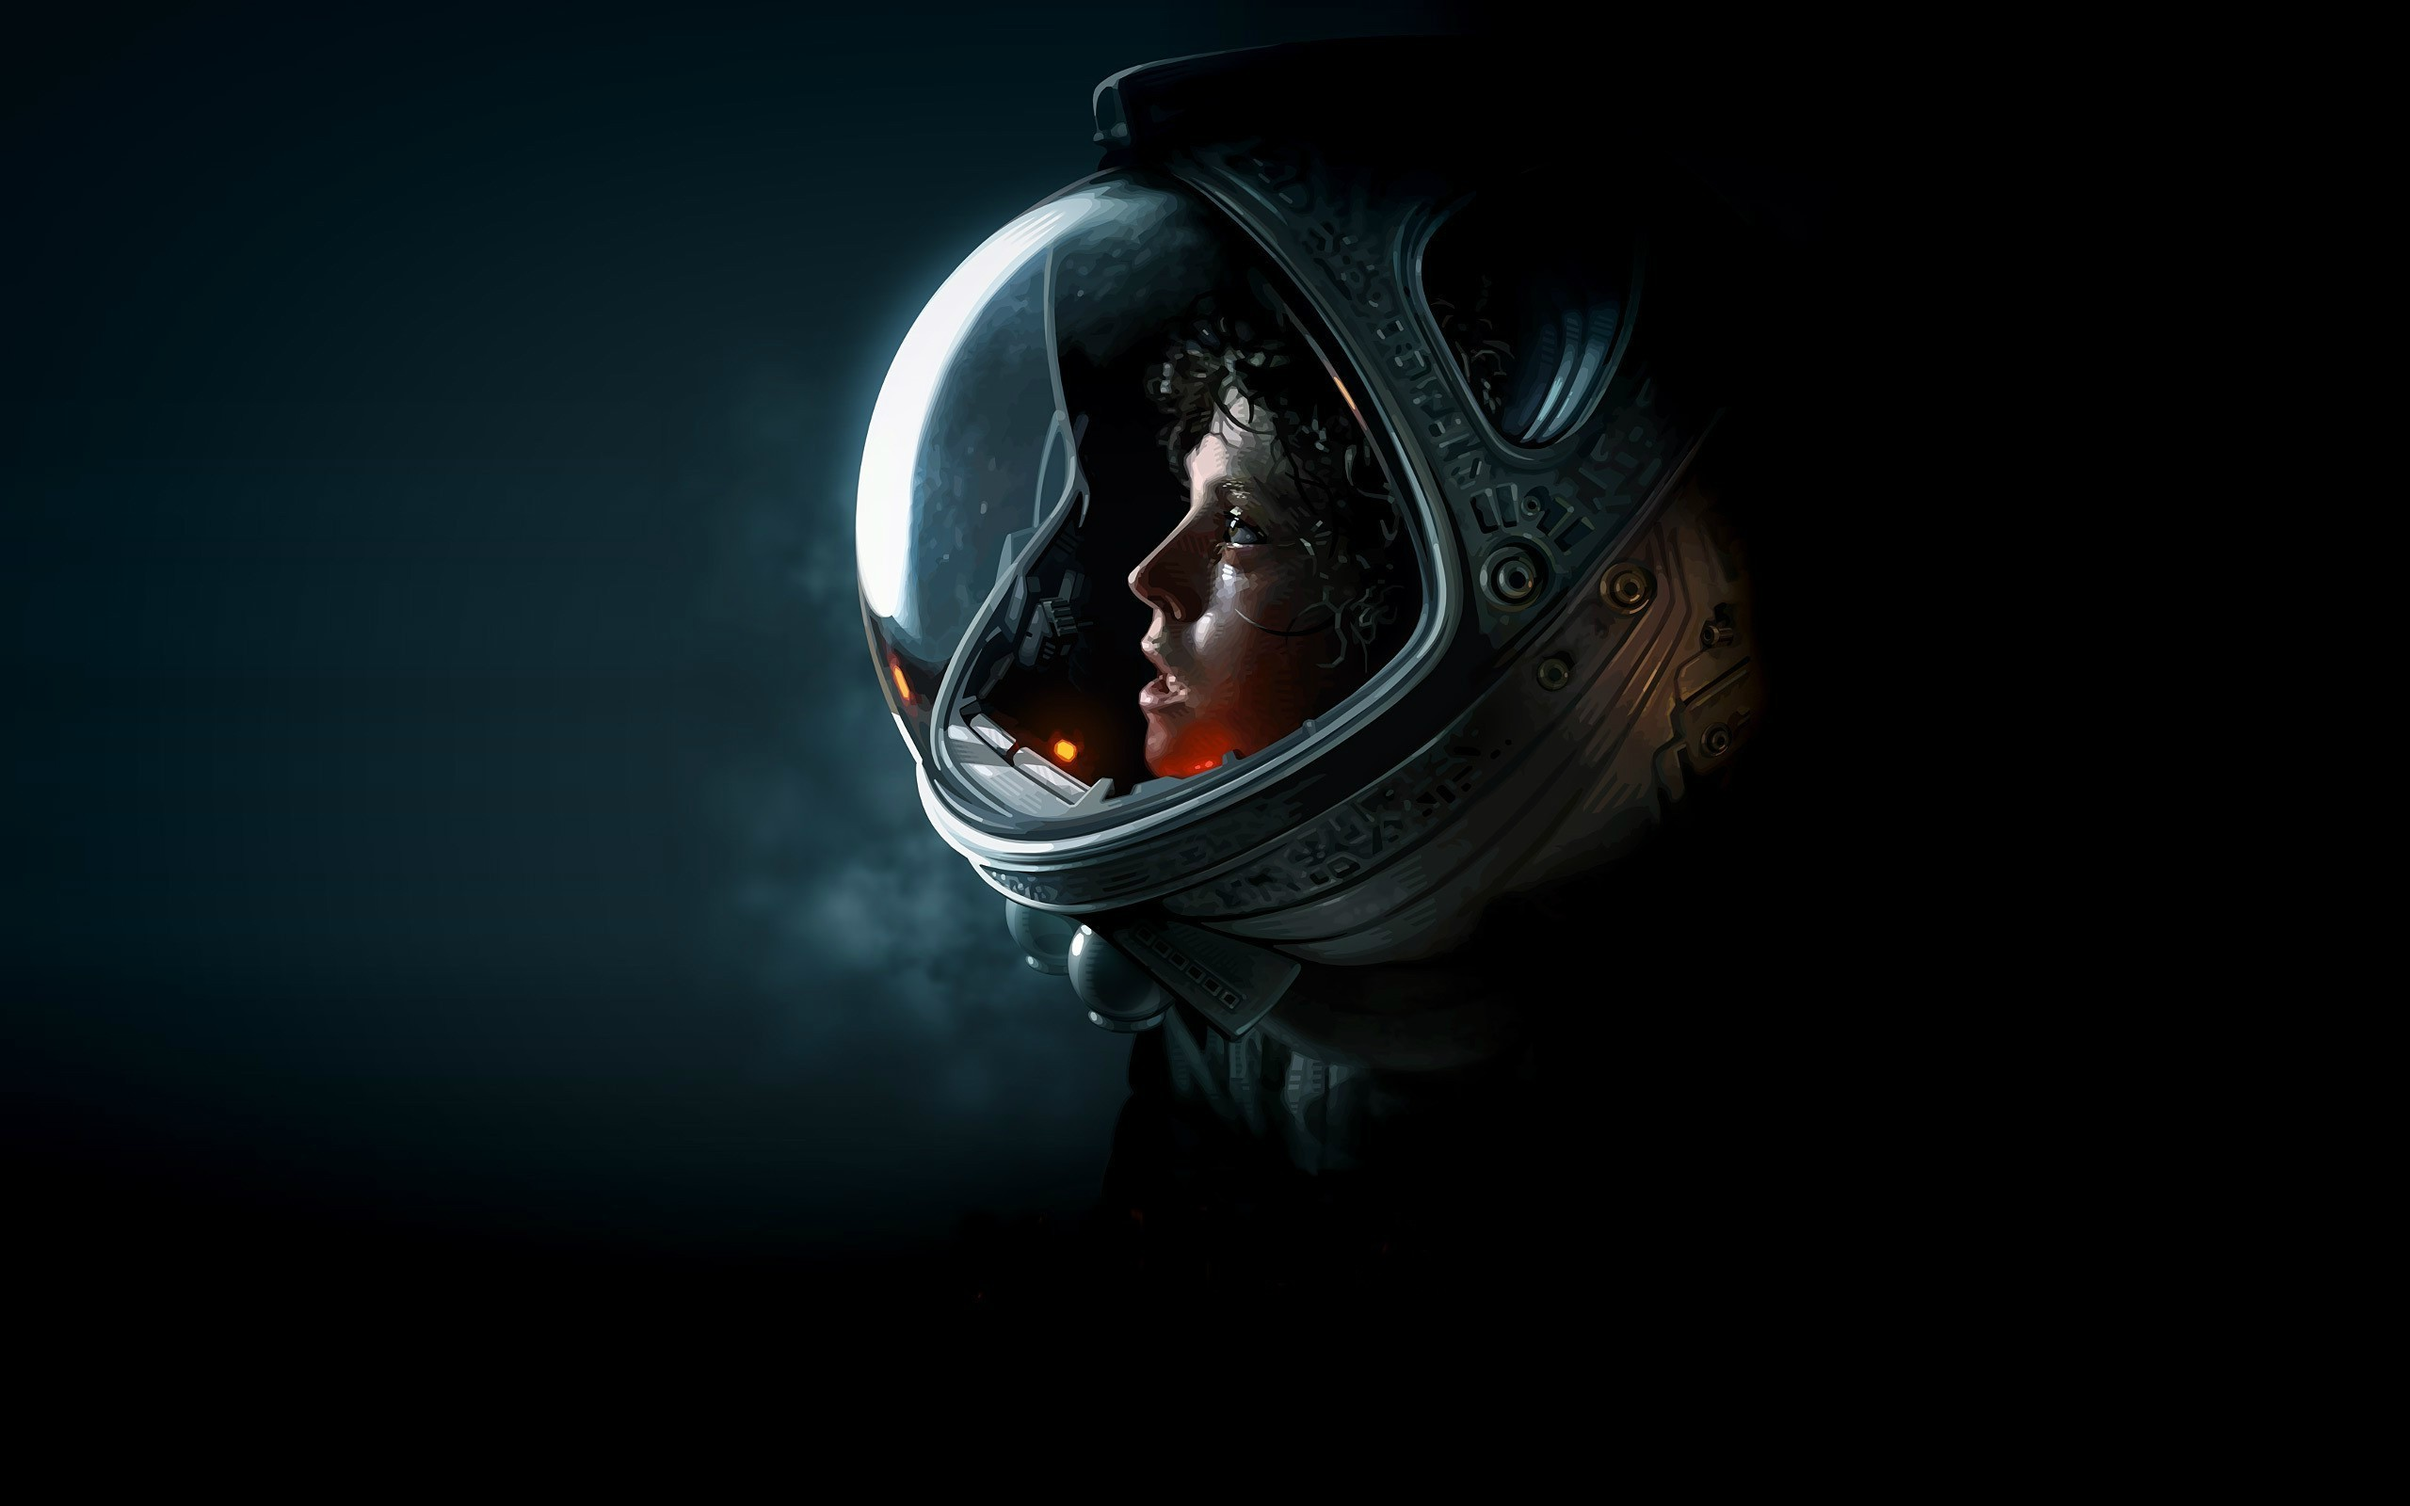
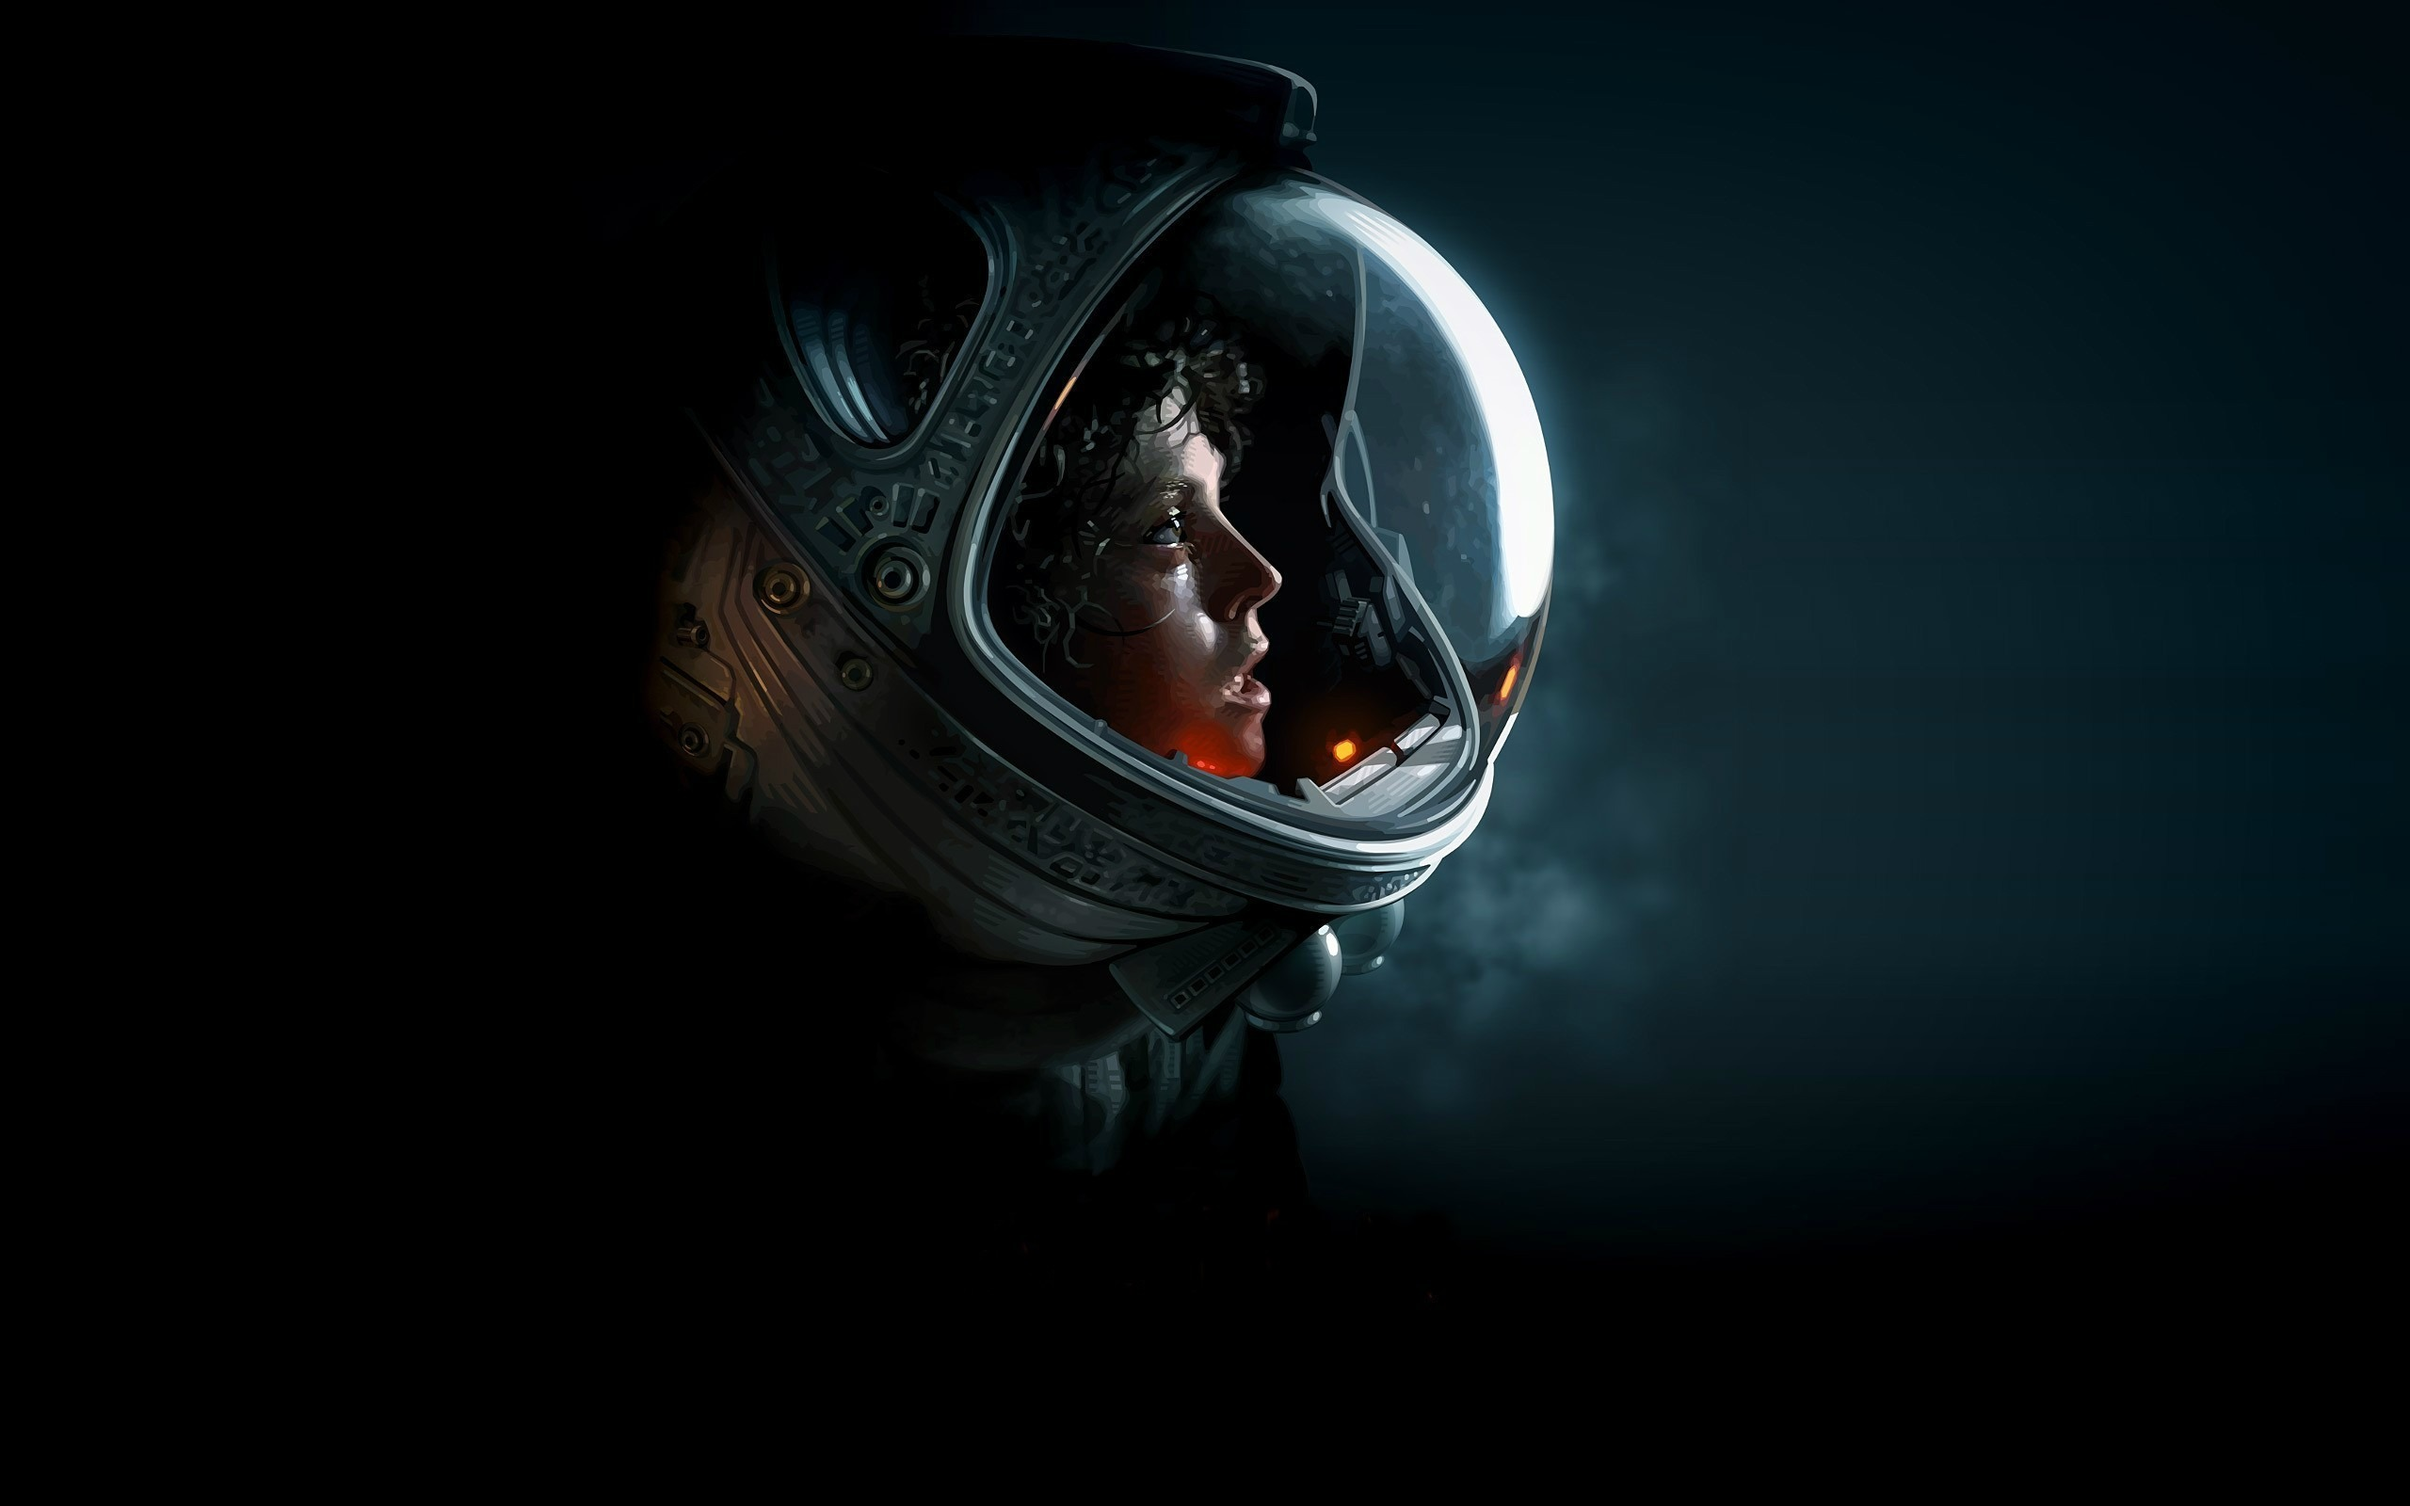
Flipped image and took out code not needed

diff --git a/static/css/style.css b/static/css/style.css
@@ -25,23 +25,6 @@ font-family: 'Muli', sans-serif;
  * Formatting the header area
  */
 
-/*
-.body {
-    width: 700px;
-    height: 2209x;
-    border: 2px solid black;
-    background-repeat: no-repeat;
-    background-image: url("../img/alien.jpg");
-    -webkit-background-size: cover;
-  -moz-background-size: cover;
-  -o-background-size: cover;
-  background-size: cover;
-  color: #FFFF;
-}
-    h1{
-        color:green;
-    }
-*/
 
 /* background, gradient and border settings */
 
@@ -97,37 +80,19 @@ title {
 
 /* Welcome to FilmDB and FilmDB and main header */
 
-.li {
-   font-family: 'Molengo', sans-serif;   
- font-size: 210em;
-  font-weight: 100;
-  margin-top: 30px;
-  text-align: center;
-  letter-spacing: -1px;
-  color: #FFF;
-}
 
-h3 {
-  font-size: 10em;
-  font-weight: 100;
-  margin-top: 30px;
-  text-align: center;
-  letter-spacing: -1px;
-  color: #FFF;
-}
+
 
 /* Main Header */
 .menu {
   float: right;
-  margin-top: 8px;
+  margin-top: 25px;
+  padding-right: 30px;
 }
 .menu li {
   display: right;
 }
-/* Spacing between title words */
-.menu li + li {
-  margin-left: 0px;
-}
+
 /* Menu font colours */
 .menu li a {
   color: #FFF;
